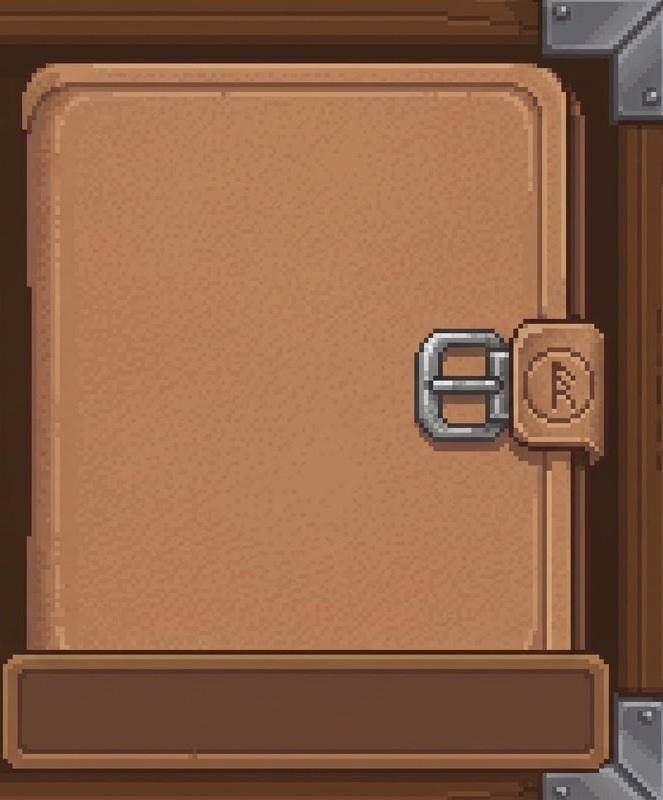
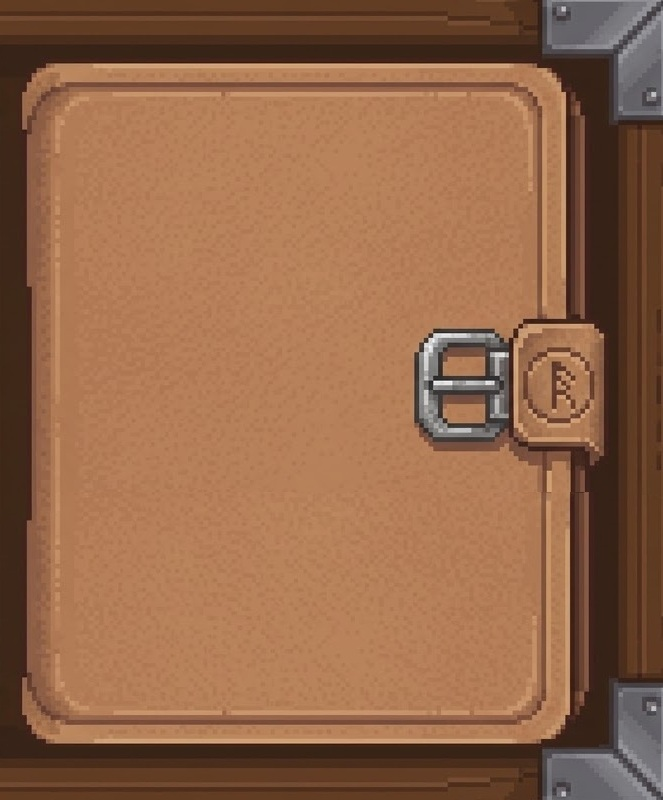
ajustes

Changed region(s): [[0.0, 0.625, 1.0, 1.0], [0.8145, 0.6562, 0.8446, 0.7188], [0.0302, 0.6562, 0.0603, 0.6875]]

diff --git a/templates/registro_aventureiro.html b/templates/registro_aventureiro.html
@@ -5,121 +5,142 @@
 <head>
     <meta charset="UTF-8">
     <title>SQL RPG</title>
-    <link
-        rel="stylesheet"
-        href="{{ url_for('static', filename='style.css') }}"
-    >
-    <link 
-        href="https://cdn.jsdelivr.net/npm/bootstrap@6.0.0-alpha.1/dist/css/bootstrap.min.css" 
-        rel="stylesheet" integrity="sha384-B/GM4XqrwHnWXNOWMbloTmrYXZg10cakYGmpfsR/bbzQ6JAJI4ihuyADKLnBgrCe" crossorigin="anonymous">
+    <link rel="stylesheet" href="{{ url_for('static', filename='style.css') }}">
+    <link href="https://cdn.jsdelivr.net/npm/bootstrap@6.0.0-alpha.1/dist/css/bootstrap.min.css" rel="stylesheet"
+        integrity="sha384-B/GM4XqrwHnWXNOWMbloTmrYXZg10cakYGmpfsR/bbzQ6JAJI4ihuyADKLnBgrCe" crossorigin="anonymous">
 
 </head>
+
 <body>
-<main 
-    class="container">
-    <section class="painel">
-        <div class="row">
+    <main class="container-fluid">
+        <section class="painel">
+            <div class="row">
 
-            <!-- DIÁLOGOS -->
-            <div class="col-6 p-4 min-vh-100" 
-                style="background-image: url('{{ url_for('static',filename='dialogo.jpg') }}'); background-size: cover;">
-
-                <!-- CONTEXTO -->
-                <div class="row p-4">
-                    <div class="col-2 text-end">
-                        <img width="50" height="50" class="mt-4" src="{{ url_for('static', filename='narrador.png') }}"/>
+                <!-- DIÁLOGOS -->
+                <div class="col-6 p-4 min-vh-100 container-fluid bg-adaptavel"
+                    style="background-image: url('{{ url_for('static',filename='l-panel.jpg') }}'); background-size: cover;">
+                    <div class="logo text-center m-5">
+                        <img src="{{ url_for('static',filename='logo.png') }}" width="350" height="150" />
                     </div>
-                    <div class="col-7 p-2 card theme-primary">
-                        <strong>Narrador:</strong>
-                        Você chega na guilda e vai até a <br>recepcionista para se registrar.
-                    </div>
-                </div>
-            
-                <!-- MISSÃO -->
-                <div class="row p-4">
-                    <div class="col-2"></div>
-                    <div class="col-7 p-2 card theme-primary text-end">
-                        <strong>Recepcionista:</strong>
-                        Cadastre seu personagem com nome<br> e nível na tabela aventureiro.
-                    </div>
-                    <div class="col-2 text-start">
-                        <img width="50" height="50" class="mt-4" src="{{ url_for('static', filename='recepcionista.png') }}"/>
-                    </div>
-                </div>
-
-                <!-- DICA -->
-                <div class="row p-4">
-                    <div class="col-2 text-end">
-                        <img width="50" height="50" class="mt-4" src="{{ url_for('static', filename='narrador.png') }}"/>
-                    </div>
-                    <div class="col-7 m-2 card theme-primary">
-                        <strong>DICA:</strong>
-                        INSERT INTO tabela (atributo) VALUES (valor);
-                    </div>
-                </div>
-            </div>
-
-            <div class="col-5 p-8"min-vh-100" 
-                style="background-image: url('{{ url_for('static',filename='painel_sql.jpg') }}'); background-size: cover;">
-                <form method="POST" action="/registrar_aventureiro" class="row mb-4">
-                    <textarea class="form-control mt-3" name="sql" rows="8" placeholder="Digite seu SQL aqui..." >{{ sql or '' }}</textarea>
-                    <button class="theme-success btn-solid mt-3" type="submit">Executar</button>
-                </form>
-                <!-- MENSAGEM DE ERRO/SUCESSO -->
-                {% if mensagem %}
-                    {% if sucesso %}
-                        <div class="alert theme-success p-2" role="alert">
-                            <p>{{mensagem}}</p>
+                    <!-- CONTEXTO -->
+                    <div class="row p-4">
+                        <div class="col-2 text-end">
+                            <img width="50" height="50" class="mt-4"
+                                src="{{ url_for('static', filename='narrador.png') }}" /><br>
+                            <strong style="color: #000">Narrador</strong>
                         </div>
-                    {% else %}
-                        <div class="alert theme-warning p-2" role="alert">
-                            <p>{{mensagem}}</p>
+                        <div class="col-7 p-2  theme-primary dialogo"
+                            style="background-image: url('{{ url_for('static',filename='balao.png') }}');">
+                            Você chega na guilda e vai até a <br>recepcionista para se registrar.
                         </div>
+                    </div>
+
+                    <!-- MISSÃO -->
+                    <div class="row p-4">
+                        <div class="col-2"></div>
+                        <div class="col-7 p-2 theme-primary text-end dialogo"
+                            style="background-image: url('{{ url_for('static',filename='balao.png') }}');">
+                            Cadastre seu personagem com nome<br> e nível na tabela aventureiro.
+                        </div>
+                        <div class="col-2 text-start">
+                            <img width="50" height="50" class="mt-4"
+                                src="{{ url_for('static', filename='recepcionista.png') }}" />
+                            <strong style="color: #000">Recepcionista</strong>
+                        </div>
+                    </div>
+
+                    <!-- DICA -->
+                    <div class="row p-4">
+                        <div class="col-2 text-end">
+                            <img width="50" height="50" class="mt-4"
+                                src="{{ url_for('static', filename='narrador.png') }}" /><br>
+                            <strong style="color: #000">Narrador</strong>
+                        </div>
+                        <div class="col-7 m-2 theme-primary dialogo"
+                            style="background-image: url('{{ url_for('static',filename='balao.png') }}');">
+                            <strong>DICA:</strong>
+                            INSERT INTO tabela (atributo) VALUES (valor);
+                        </div>
+                    </div>
+                </div>
+
+                <div class="col-6 p-8 min-vh-100"
+                    style="background-image: url('{{ url_for('static',filename='book.png') }}'); background-size: cover;">
+                    <div class="formsql">
+                        <form method="POST" action="/registrar_aventureiro"
+                            class="row justify-content-center align-items-center">
+                            <div class="col-11 mb-10">
+                                <textarea class="form-control mt-3 sqlbox" name="sql" rows="4"
+                                    placeholder="Digite seu SQL aqui...">{{ sql or '' }}</textarea>
+                            </div>
+                            <div class="col-2"></div>
+                            <!-- MENSAGEM DE ERRO/SUCESSO -->
+                            <div class="col-6 mt-5 d-flex">
+                                {% if mensagem %}
+                                <div class="col-2 text-end">
+                                    <img width="50" height="50" class="m-4"
+                                        src="{{ url_for('static', filename='narrador.png') }}" /><br>
+                                    <strong style="color: #000">Narrador</strong>
+                                </div>
+                                <div class="col-10 p-2 m-4 theme-primary dialogo"
+                                    style="background-image: url('{{ url_for('static',filename='balao.png') }}');">
+                                    <p>{{mensagem}}</p>
+                                </div>
+                                {% endif %}
+                            </div>
+                            <div class="col-2 mt-5">
+                                <button class="btn btn-custom-bg text-dark fw-bold" type="submit"
+                                    style="background-color: #D68A32; border: 2px solid #FFF">Executar</button>
+                            </div>
+                            <div class="col-2"></div>
+                        </form>
+                    </div>
+                    {% if dados is defined %}
+                    <div class="painel row mt-5">
+                        <div class="tabela-container col-3"></div>
+                        {% if dados %}
+                        <div class="tabela-container col-6">
+                            <table class="table">
+                                <thead>
+                                    <tr style="background-color: #D68A32;">
+                                        {% for coluna in colunas %}
+                                        <th>
+                                            {{ coluna }}
+                                        </th>
+                                        {% endfor %}
+                                    </tr>
+                                </thead>
+                                <tbody>
+                                    {% for linha in dados %}
+                                    <tr style="background-color: #FFF">
+                                        {% for valor in linha %}
+                                        <td  style="background-color: #FFF">
+                                            {{ valor }}
+                                        </td>
+                                        {% endfor %}
+                                    </tr>
+                                    {% endfor %}
+                                </tbody>
+                            </table>
+                        </div>
+                        {% else %}
+                        <p>
+                            ⚠ A consulta não retornou registros.
+                        </p>
+                        {% endif %}
+                    </div>
                     {% endif %}
-                {% endif %}
+
+                </div>
             </div>
-        </div>
 
-        
-    </section>
 
-    
-    
-    {% if dados is defined %}
-    <section class="painel">
-        <h2>📊 Resultado da consulta</h2>
-        {% if dados %}
-        <div class="tabela-container">
-            <table>
-                <thead>
-                    <tr>
-                        {% for coluna in colunas %}
-                        <th>
-                            {{ coluna }}
-                        </th>
-                        {% endfor %}
-                    </tr>
-                </thead>
-                <tbody>
-                    {% for linha in dados %}
-                    <tr>
-                        {% for valor in linha %}
-                        <td>
-                            {{ valor }}
-                        </td>
-                        {% endfor %}
-                    </tr>
-                    {% endfor %}
-                </tbody>
-            </table>
-        </div>
-        {% else %}
-        <p>
-            ⚠ A consulta não retornou registros.
-        </p>
-        {% endif %}
-    </section>
-    {% endif %}
-</main>
+        </section>
+
+
+
+
+    </main>
 </body>
+
 </html>

diff --git a/static/style.css b/static/style.css
@@ -9,3 +9,33 @@
 div, h1, h2, h3, h4, h5, h6 {
   --fonte-titulo: 'Alagard', sans-serif;
 }
+
+.bg-adaptavel {
+    background-size: cover;      /* Força a imagem a preencher a div adaptando a largura */
+    background-position: center; /* Mantém o foco da imagem centralizado */
+    background-repeat: no-repeat; /* Evita que a imagem fique se duplicando */
+    min-height: 300px;           /* Defina uma altura mínima, pois divs com background precisam de altura ou conteúdo interno */
+}
+
+.dialogo {
+  background-size: cover;
+  padding: 10px !important; 
+  color: #000;
+}
+
+.formsql {
+  bottom: 0;
+  z-index: 1000;
+  width: 100%;
+}
+
+.sqlbox {
+    background-color: #664330;
+    border: 1px solid #664330;
+    border-radius: 15;
+    color: #ffffff; 
+}
+.sqlbox:focus {
+    background-color: #664330;
+    border: 1px solid #664330;
+}

diff --git a/app.py b/app.py
@@ -60,7 +60,8 @@ def executar_select(sql):
             "registro_aventureiro.html",
             sql=sql,
             colunas=colunas,
-            dados=dados
+            dados=dados,
+            mensagem="👍 Sua consulta retornou dados."
         )
     except Exception as erro:
         return render_template(
